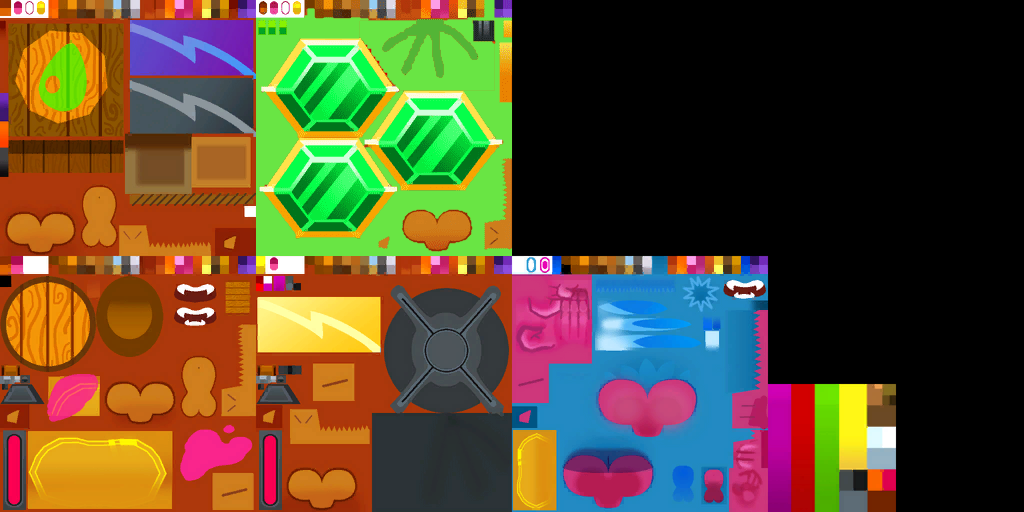
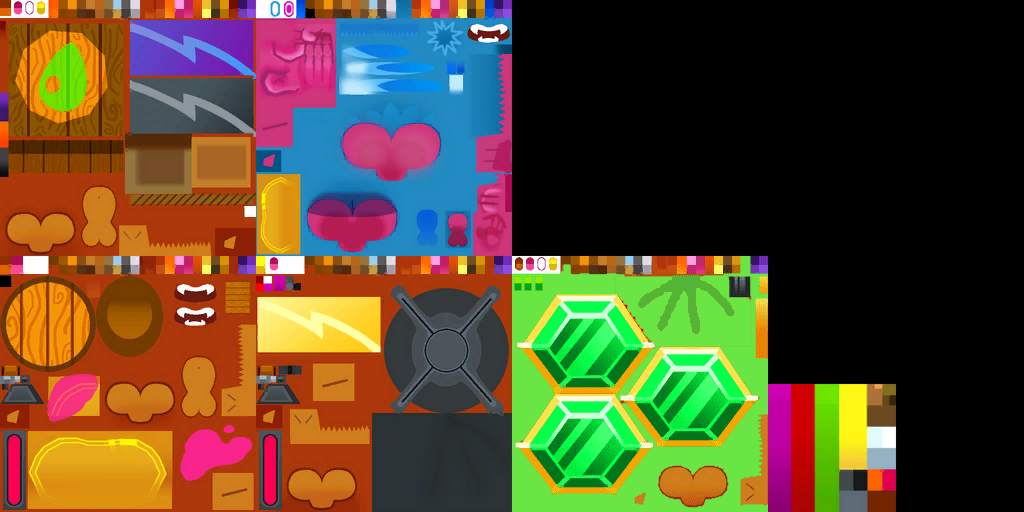
Fix displays

Changed region(s): [[0.5, 0.5, 0.75, 1.0], [0.25, 0.0, 0.5, 0.5]]

diff --git a/ModHelperData.cs b/ModHelperData.cs
@@ -2,7 +2,7 @@
 {
     public static class ModHelperData
     {
-        public const string Version = "1.2.3";
+        public const string Version = "1.2.4";
         public const string Name = "Card Monkey";
         public const string Description =
             "Adds in a new custom tower themed around playing cards.";

diff --git a/LATEST.md b/LATEST.md
@@ -1,2 +1,1 @@
-- Fixed for v32.0
-- New portraits
+- Fixed displays for v33
